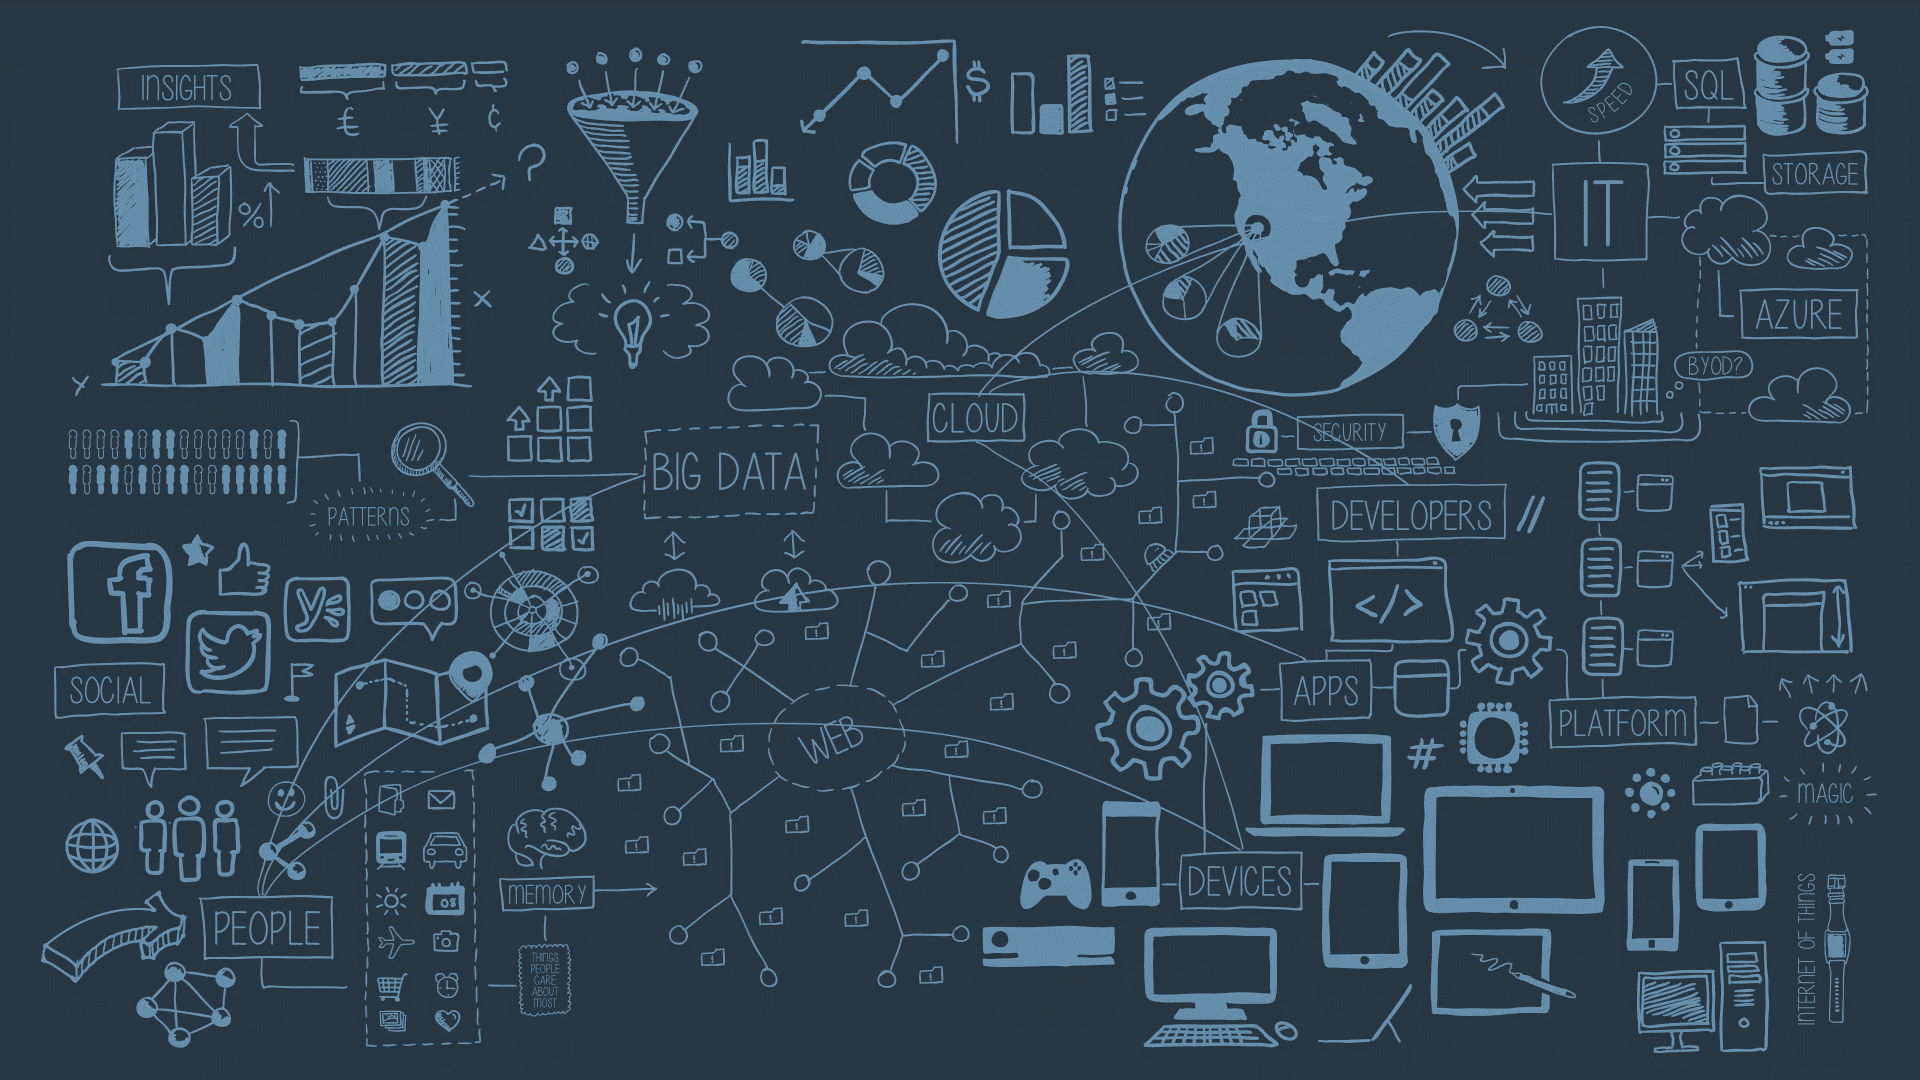
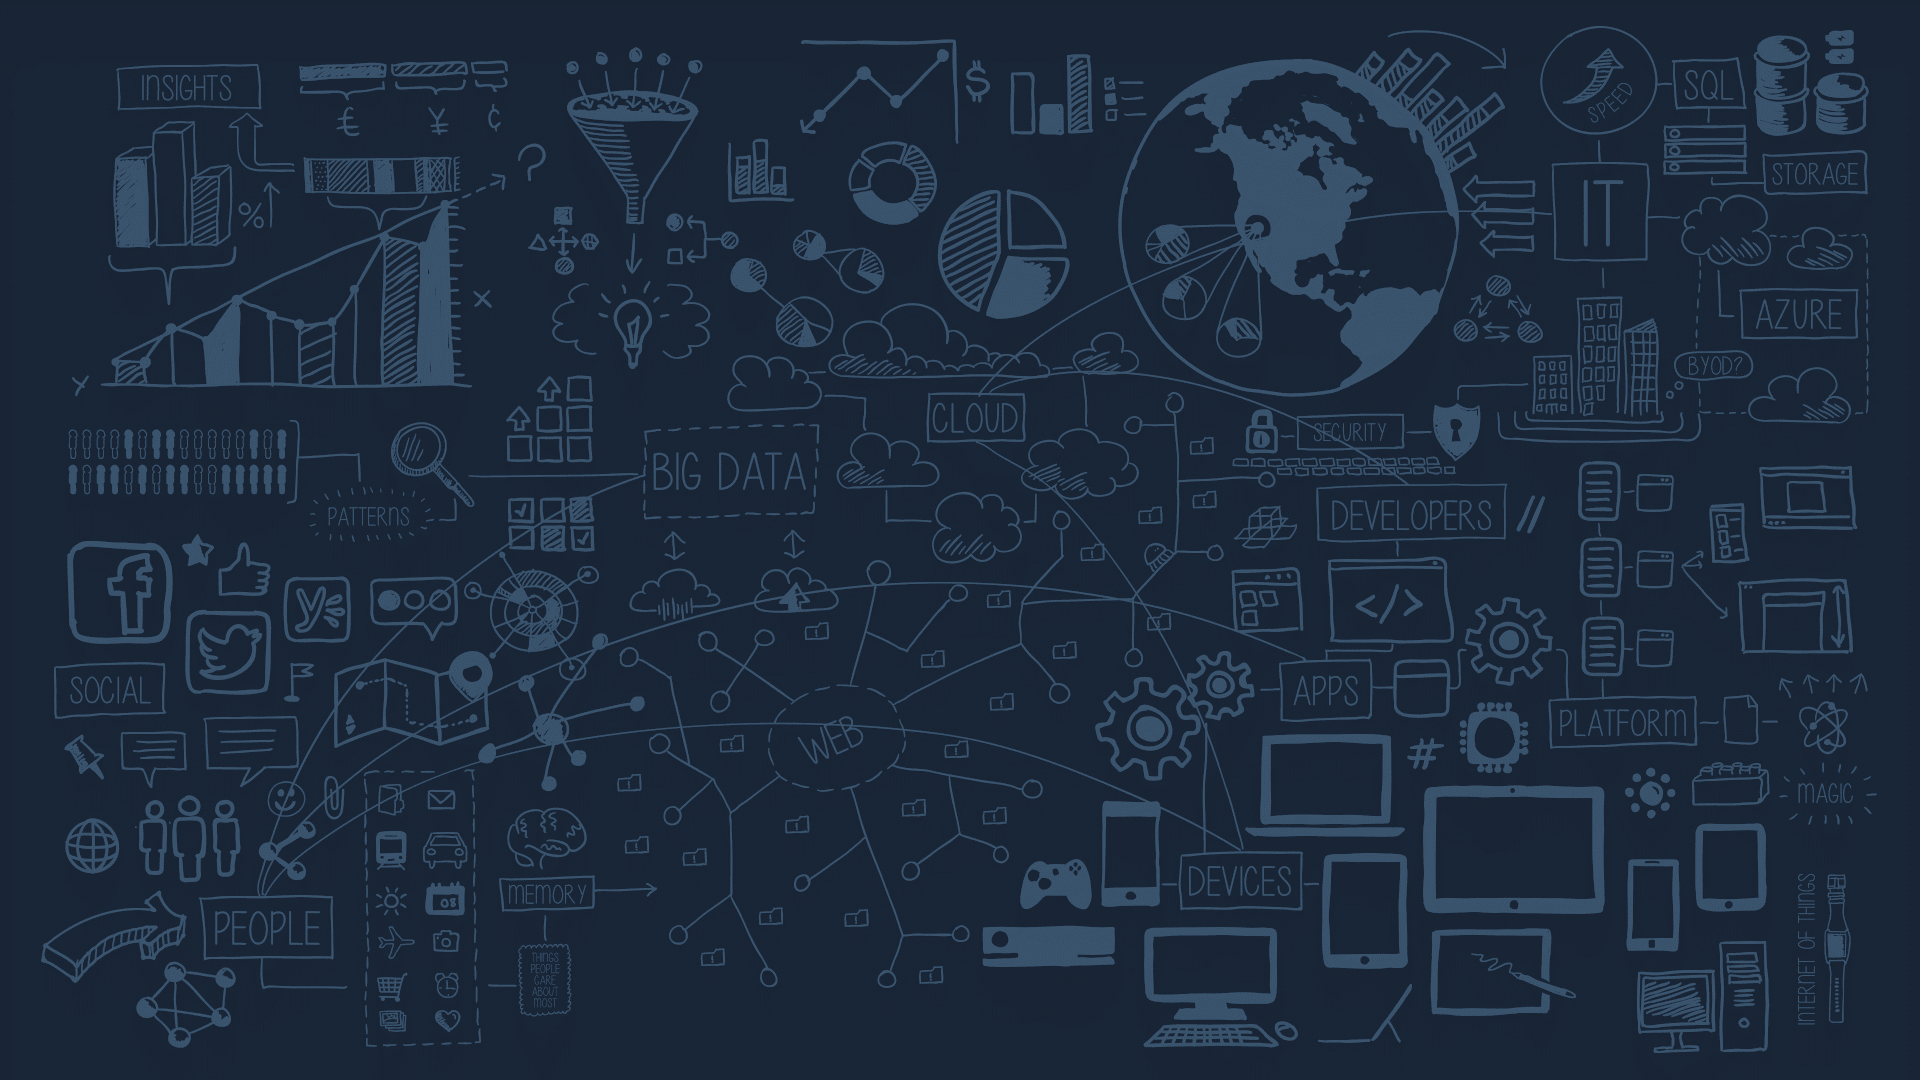
Migliorato Sfondo

diff --git a/style.css b/style.css
@@ -1,5 +1,5 @@
 body {
-	background: #283844;
+	background: #192637;
 	overflow-x: hidden;
 }
 
@@ -40,12 +40,12 @@ li {
 ::-webkit-scrollbar-track {
 	box-shadow: inset 0 0 5px grey;
 	border-radius: 50px;
-	background: #283844;
+	background: #192637;
 }
 
 ::-webkit-scrollbar-thumb {
 	border-radius: 50px;
-	background: #101a54;
+	background: #071c96;
 }
 
 ::-webkit-scrollbar-thumb:hover {
